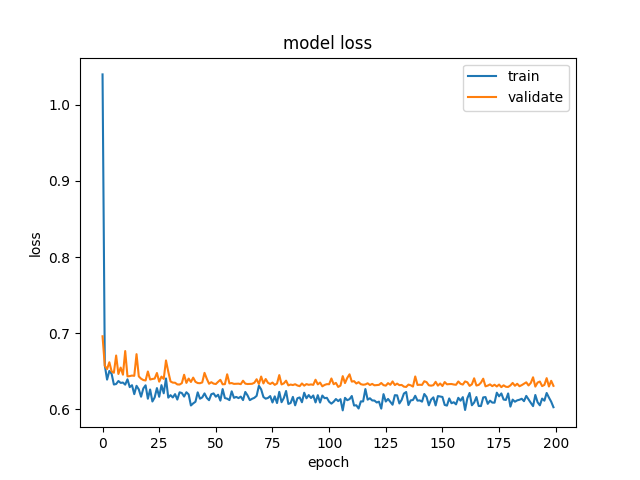
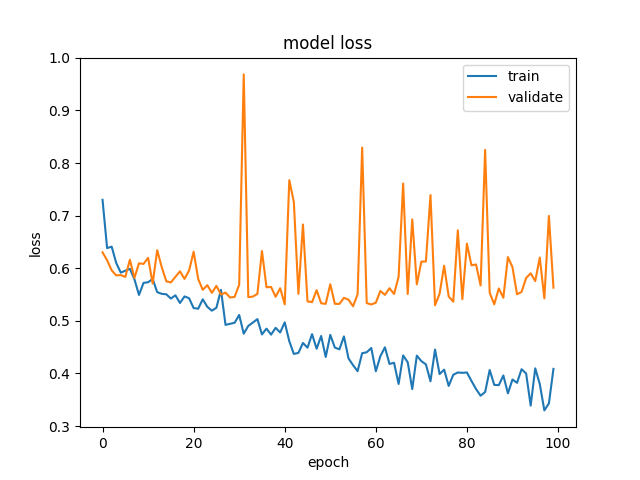
train withiut nan loss

diff --git a/kaggle/quora/model_arch.py b/kaggle/quora/model_arch.py
@@ -32,9 +32,9 @@ def siamese(max_sent_len, wordvec_dim,gru_output_dim, output_dim):
         gru_sent_bwd.append(GRU(gru_output_dim, return_sequences=False, go_backwards = True, activation='tanh', inner_activation='hard_sigmoid', input_shape = (max_sent_len,wordvec_dim)))
 	gru_f.append(gru_sent_fwd[i](input_layers[i]))
 	gru_b.append(gru_sent_bwd[i](input_layers[i]))
-	#gru_f[i] = BatchNormalization()(gru_f[i])
+	gru_f[i] = BatchNormalization()(gru_f[i])
 	gru_f[i] = Activation('tanh')(gru_f[i])
-	#gru_b[i] = BatchNormalization()(gru_b[i])
+	gru_b[i] = BatchNormalization()(gru_b[i])
         gru_b[i] = Activation('tanh')(gru_b[i])
 	gru_merge = merge([gru_f[i], gru_b[i]], mode = 'concat', concat_axis = -1)
         gru_merge = Dense(20)(gru_merge)
@@ -49,7 +49,7 @@ def siamese(max_sent_len, wordvec_dim,gru_output_dim, output_dim):
     model = Dense(output_dim)(model)
 
     sgd = optimizers.SGD(lr=0.001, decay=1e-6, momentum=0.9, nesterov=True)
-    #model = BatchNormalization()(model)
+    model = BatchNormalization()(model)
     out_layer = Activation('softmax')(model)
     model = Model(input = input_layers, output = out_layer)
 
@@ -71,5 +71,42 @@ def dense_test(max_sent_len, wordvec_dim,gru_output_dim, output_dim):
     model.compile(loss = 'categorical_crossentropy', optimizer='adagrad', metrics = ['accuracy'])
     return model
 
-#def siamese_tfidf(max_sent_len, wordvec_dim, gru_output_dim, output_dim):
 
+
+def siamese_cnn_lstm(max_sent_len, wordvec_dim,gru_output_dim, output_dim):
+    #gru_sent_fwd = LSTM(gru_output_dim, return_sequences=False, go_backwards = False, activation='relu', inner_activation='hard_sigmoid', input_shape = (max_sent_len,wordvec_dim))
+    #gru_sent_bwd = LSTM(gru_output_dim, return_sequences=False, go_backwards = True, activation='relu', inner_activation='hard_sigmoid', input_shape = (max_sent_len,wordvec_dim))
+    #input_layers = []
+    gru_f, gru_b, gru_sent_fwd, gru_sent_bwd= [],[],[],[]
+    input_layers = [Input(shape = (max_sent_len, wordvec_dim)) for i in xrange(2)]
+    #input_2 = Input(shape = (max_sent_len, wordvec_dim))
+    siamese_sub_parts = []
+    for i in xrange(2):
+        gru_sent_fwd.append(GRU(gru_output_dim, return_sequences=False, go_backwards = False, activation='tanh', inner_activation='hard_sigmoid', input_shape = (max_sent_len,wordvec_dim)))
+        gru_sent_bwd.append(GRU(gru_output_dim, return_sequences=False, go_backwards = True, activation='tanh', inner_activation='hard_sigmoid', input_shape = (max_sent_len,wordvec_dim)))
+	gru_f.append(gru_sent_fwd[i](input_layers[i]))
+	gru_b.append(gru_sent_bwd[i](input_layers[i]))
+	gru_f[i] = BatchNormalization()(gru_f[i])
+	gru_f[i] = Activation('softmax')(gru_f[i])
+	gru_b[i] = BatchNormalization()(gru_b[i])
+        gru_b[i] = Activation('softmax')(gru_b[i])
+	gru_merge = merge([gru_f[i], gru_b[i]], mode = 'concat', concat_axis = -1)
+        gru_merge = Dense(20)(gru_merge)
+        #gru_merge = Dropout(0.25)(gru_merge)
+        #gru_merge = Dense(100)(gru_merge)
+        siamese_sub_parts.append(gru_merge)
+
+    #distance = Lambda(euclidean_distance, output_shape = eucl_dist_output_shape)(siamese_sub_parts)
+    #model = Dense(output_dim)(distance)
+
+    model = merge(siamese_sub_parts, mode = 'concat', concat_axis = -1)
+    model = Dense(output_dim)(model)
+
+    sgd = optimizers.SGD(lr=0.001, decay=1e-6, momentum=0.9, nesterov=True)
+    model = BatchNormalization()(model)
+    out_layer = Activation('softmax')(model)
+    model = Model(input = input_layers, output = out_layer)
+
+    model.compile(loss = 'categorical_crossentropy', optimizer='adagrad', metrics = ['accuracy'])
+
+    return model

diff --git a/kaggle/quora/train.py b/kaggle/quora/train.py
@@ -24,7 +24,7 @@ gru_output_dim = 50
 output_dim = 2
 train_size = 5000
 batch_size = 1000
-num_epoch = 200
+num_epoch = 100
 def batch_gen_2d(batch_size, start_index, end_index, only_tfidf = False):
     while True:
         i = randint(start_index, end_index)
@@ -64,7 +64,7 @@ if sys.argv[-1]=='only_tfidf':
     model = ma.siamese(max_sent_len, 1 , gru_output_dim, output_dim)
     only_tfidf = True
 #fit = model.fit_generator(generator=batch_gen_2d(500,1,10000), nb_epoch=30, samples_per_epoch=train_size)
-history = model.fit_generator(generator=batch_gen_2d(batch_size,1,39000, only_tfidf), nb_epoch = num_epoch, validation_data = batch_gen_2d(batch_size,44000,44010, only_tfidf), nb_val_samples = 1000, samples_per_epoch=train_size)
+history = model.fit_generator(generator=batch_gen_2d(batch_size,1,45000,only_tfidf),nb_epoch = num_epoch, validation_data = batch_gen_2d(batch_size,47000,47010, only_tfidf), nb_val_samples = 1000, samples_per_epoch=train_size)
 
 #plot_model(model, to_file='model.png')
 

diff --git a/kaggle/quora/utils.py b/kaggle/quora/utils.py
@@ -179,7 +179,7 @@ if __name__ == '__main__':
         max_sent_len = max([max(map(lambda x: len(x), x1)), max(map(lambda x: len(x), x2))])
         max_sent_len = 60
 
-        index_training_data(50000)
+        index_training_data(100000)
 
     if sys.argv[-1] == 'predict': ### Sample prediction
 	import model_arch as ma
